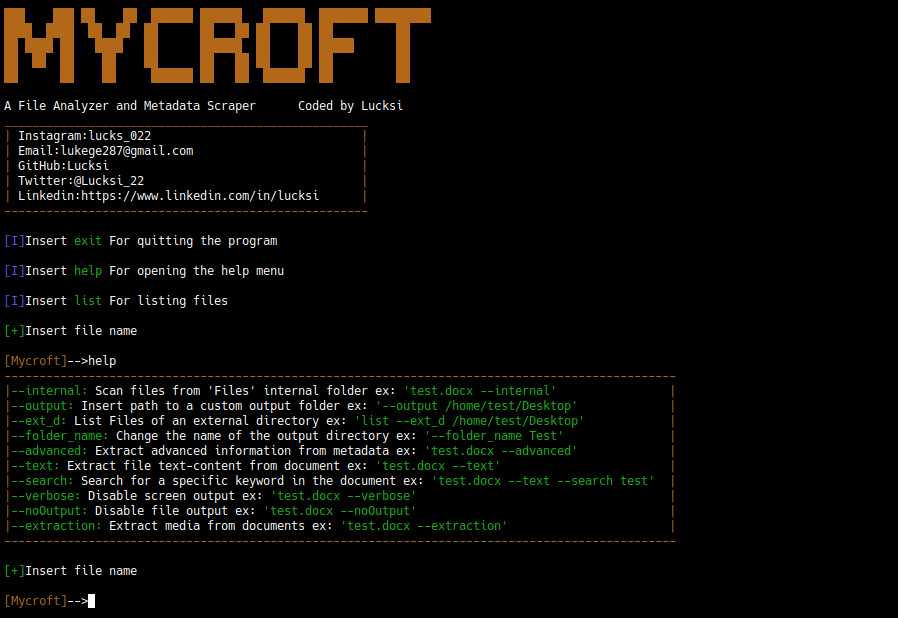
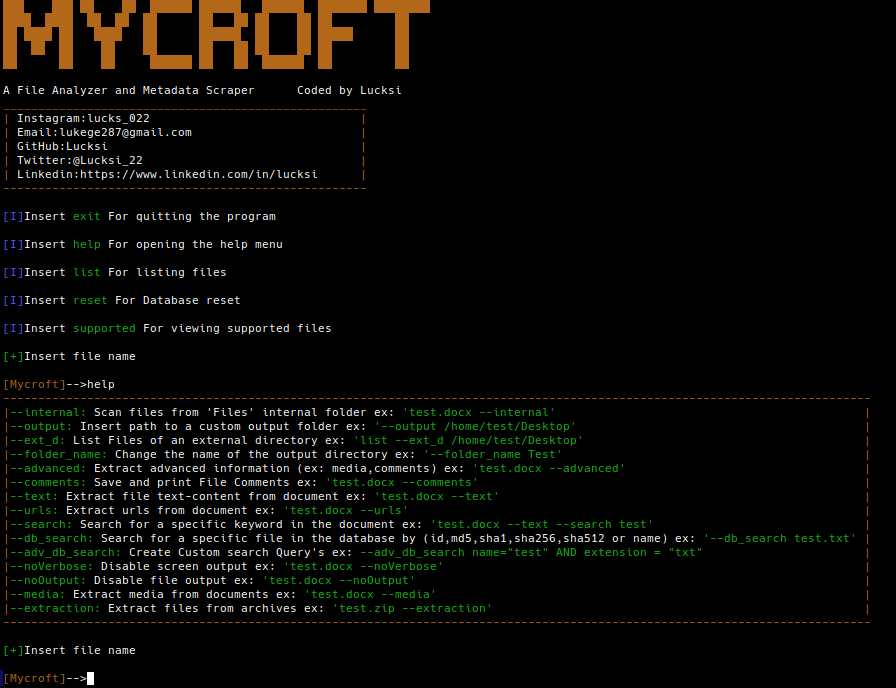
Add files via upload

Changed region(s): [[0.0, 0.4304, 0.7812, 1.0], [0.0, 0.0, 0.5, 0.3997], [0.8125, 0.7686, 0.9688, 0.7994]]

diff --git a/Readme.md b/Readme.md
@@ -60,23 +60,30 @@ python3 main.py
 | `--ext_d`  | List Files of an external directory | list --ext_d /home/test/Desktop |
 | `--folder_name`  | Change the name of the output directory | --folder_name Test |
 | `--advanced`  | Extract advanced information from metadata | test.docx --advanced |
+| `--comments`  | Extract comments from the document | test.docx --comments |
 | `--text`  | Extract file text-content from document | test.docx --text |
+| `--urls`  | Extract urls from the document | test.docx --urls |
 | `--search`  | Search for a specific keyword in the document | test.docx --text --search Test |
-| `--verbose`  | Disable screen output | test.docx --verbose
-| `--noOutput`  | Disable file output | test.docx --noOutput
-| `--extraction`  | Extract media from documents or files from archives| test.docx --extraction
+| `--db_search`  | Search for a specific file in the database by (id,md5,sha1,sha256,sha512 or name) | --db_search test.txt |
+| `--adv_db_search`  | Create Custom search Query's | --adv_db_search name="test" AND extension = "txt"|
+| `--noVerbose`  | Disable screen output | test.docx --verbose
+| `--noOutput`  | Disable file output | test.docx --noOutput |
+| `--media`  | Extract media from documents| test.docx --media
+| `--extraction`  | Extract files from archives| test.zip --extraction
 
 ## Features:
 
 | Description | File-Format |
 | ------------- | ------------- |
-| Extract metadata  | docx, pdf, xlsx, pptx, jpg, png, mp4, odt, odp, odc, zip, apk, jar, psd|
+| Extract metadata  | docx, pdf, xlsx, pptx, jpg, png, mp4, odt, odg, dotx, potx , docm , xlsm , pptm, odp, odc, zip, apk, jar, psd, gif, jps, bmp, tar.xz, tar.gz, tar.bz2|
 | Get file hashes  | All formats |
 | Get local informations  | All formats |
 | Extract and Download media  | docx, pptx, odp, odt |
 | Extract Text  | docx, pptx, odt, odp|
+| Extract Comments  | docx, pptx, odt, odp|
+| Extract Urls  | docx, pptx, odt, odp|
 | Search Keyword  | docx, pptx, odt, odp|
-| Extract files  | zip, apk, jar |
+| Extract files  | zip, apk, jar, tar.xz, tar.gz, tar.bz2 |
 | Get archives file information  | zip, apk, jar |
 | Get archive information  | zip, apk, jar |
 | Get Pdf File Permission  | pdf |
@@ -128,4 +135,4 @@ python3 main.py
 ## <p align = center>  ORIGINAL CREATOR: <a href = "https://github.com/Lucksi">LUCA GAROFALO (Lucksi)</a></p>
 
 
-## <p align = center>LICENSE: GPL-3.0 License <br>COPYRIGHT: (C) 2024-2025 Lucksi  
+## <p align = center>LICENSE: GPL-3.0 License <br>COPYRIGHT: (C) 2024 Lucksi  
